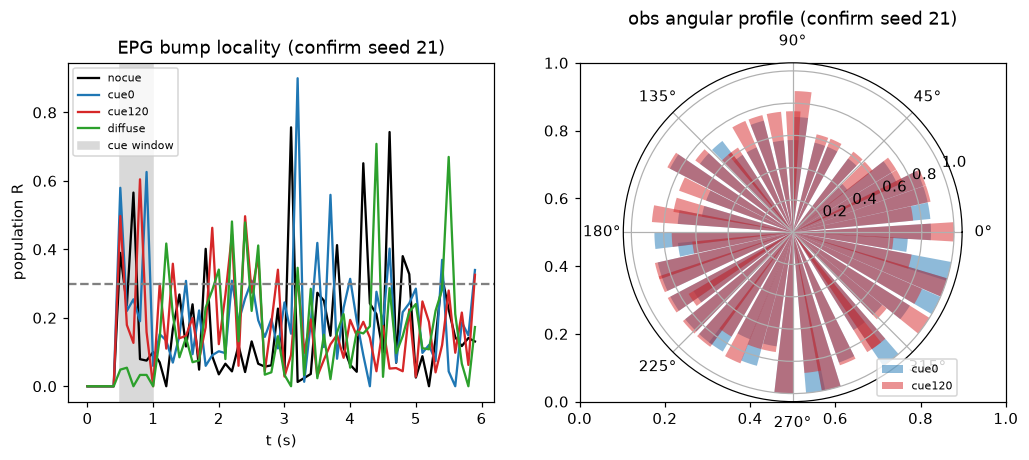
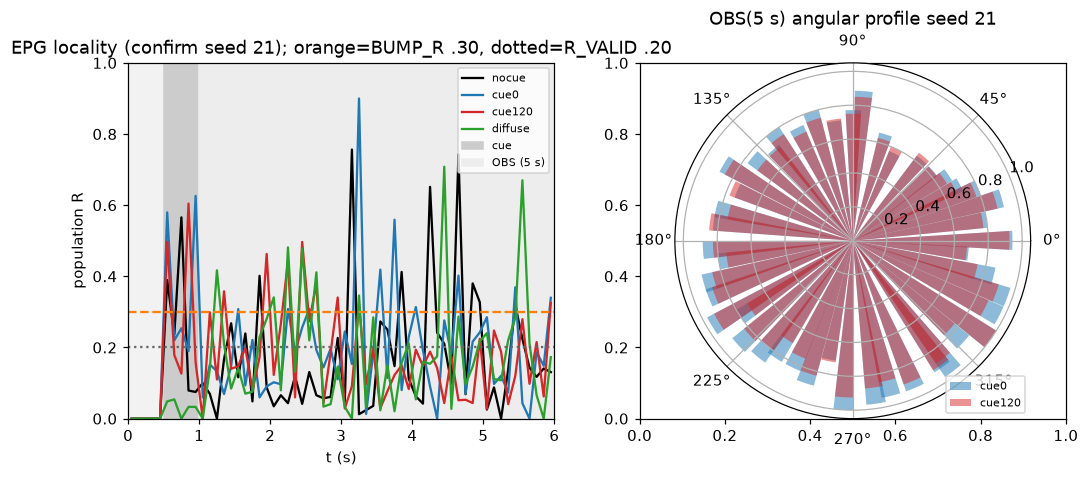
P2d-27a: correct analysis scope (phase_valid vs bump_sustain durations, real spatial-shuffle control, fixed plot slicing) -> PARTIAL maintained; compass route formally CLOSED
NO RE-RUN: original prereg, saved timeseries loop/p2d27_timeseries.npz, all seeds and parameters preserved; everything recomputed from the saved timeseries only; prereg criteria unchanged.

FIXES: (1) trial_metrics now reports phase_valid_duration_s (R>=0.20 & spikes>=MIN_SPK) and bump_sustain_duration_s (R>=0.30 & spikes>=MIN_SPK, contiguous) separately -- never conflated. (2) real spatial angle-label shuffle control (permute the 46 EPG angle labels, 1000x, add-one p) replaces the invalid '... or True' test; also wired into the verdict file. (3) plot x-axis fixed to 0-6 s with PRE/CUE/OBS(5 s) shading and BUMP_R/R_VALID reference lines. (4) PRE-segment activity and the short-init caveat reported; 'no spontaneous bump' qualified to this round's condition only. (5) sensory_input=True marked as this round's condition, not mixed with earlier sensory_input=False P2 data.

CORRECTED RESULT (confirm medians): phase_valid_duration_s 0.25-0.40 s vs bump_sustain_duration_s 0.10-0.20 s; frac bump_sustain>=1s = 0.00 for all conditions; obs R 0.12-0.15 < BUMP_R 0.30; position_separation empty; shuffle p=0.001 (background weakly non-uniform but R far below a bump). PRE segment: median 14 EPG spikes, R=0. So the corrected analysis still shows NO threshold-satisfying sustained, position-specific state.
[…]

diff --git a/loop/state_analyze.py b/loop/state_analyze.py
@@ -1,4 +1,9 @@
-"""P2d-27 第二关：汇总 + 冻结判据裁决 + 图。读 p2d27_trials.csv / p2d27_timeseries.npz。"""
+"""P2d-27a：**从已保存时序重新分析**（不重跑 MaleCNS）。修正分析口径：
+  - 区分 `phase_valid_duration_s`(R≥0.20) 与 `bump_sustain_duration_s`(R≥0.30 且发放≥MIN_SPK 连续)；
+  - 加**真正的空间角标签打乱**对照；
+  - 修正绘图时间切片（完整 5 s 观察段）；
+  - 用原始时序重生成 逐seed表 / 裁决 / 图。**不改**预注册判据与原始结果。
+"""
 from __future__ import annotations
 
 import csv
@@ -9,12 +14,32 @@ import sys
 import numpy as np
 
 HERE = os.path.dirname(os.path.abspath(__file__))
-from loop.state_probe import (BUMP_R, CUE, PHASE_SEP_MIN, PRE, R_VALID, SUSTAIN_MIN_S,
-                              WINDOW, window_series)
+from loop.state_probe import (BUMP_R, CUE, MIN_SPK, PHASE_SEP_MIN, PRE, R_VALID,
+                              SUSTAIN_MIN_S, TOTAL, WINDOW, epg_setup,
+                              spatial_shuffle_control, trial_metrics, window_series)
+
+COLS = ["phase", "seed", "condition", "pre_spikes", "pre_medianR", "cue_medianR", "obs_medianR",
+        "valid_rate", "phase_valid_duration_s", "bump_sustain_duration_s", "final_phase_deg",
+        "n_peaks", "fwhm_deg", "n_spikes_obs", "shuffle_obsR", "shuffle_p"]
 
 
 def circ_diff(a, b):
     return abs((a - b + 180) % 360 - 180)
+
+
+def recompute(series_path, ang):
+    d = np.load(series_path)
+    rows = []
+    for k in d.files:
+        ph, seed, cond = k.split("_", 2)
+        ct = d[k]
+        m = trial_metrics(ct, ang)
+        sh = spatial_shuffle_control(ct, ang, n_perm=1000, seed=0)
+        m.update({"phase": ph, "seed": int(seed), "condition": cond,
+                  "shuffle_obsR": sh["obs_R"], "shuffle_p": sh["p"]})
+        rows.append(m)
+    rows.sort(key=lambda r: (r["phase"], r["seed"], r["condition"]))
+    return rows
 
 
 def main(argv=None) -> int:
@@ -22,12 +47,13 @@ def main(argv=None) -> int:
         sys.stdout.reconfigure(encoding="utf-8", errors="replace")
     except Exception:                                    # noqa: BLE001
         pass
-    rows = list(csv.DictReader(open(os.path.join(HERE, "p2d27_trials.csv"), encoding="utf-8")))
-    for r in rows:
-        for k in ("obs_medianR", "cue_medianR", "pre_medianR", "valid_rate"):
-            r[k] = float(r[k]) if r[k] not in ("", "None") else float("nan")
-        r["sustain_s"] = float(r["sustain_s"]); r["seed"] = int(r["seed"])
-        r["final_phase_deg"] = float(r["final_phase_deg"]) if r["final_phase_deg"] not in ("", "nan") else float("nan")
+    from flybrain.data import ensure_data
+    _, _, ang = epg_setup(ensure_data())
+    rows = recompute(os.path.join(HERE, "p2d27_timeseries.npz"), ang)
+    with open(os.path.join(HERE, "p2d27_trials.csv"), "w", newline="", encoding="utf-8") as fh:
+        w = csv.DictWriter(fh, fieldnames=COLS); w.writeheader()
+        for r in rows:
+            w.writerow({k: r.get(k, "") for k in COLS})
 
     def sub(ph, cond):
         return [r for r in rows if r["phase"] == ph and r["condition"] == cond]
@@ -35,71 +61,78 @@ def main(argv=None) -> int:
     summary = {}
     for cond in ("nocue", "cue0", "cue120", "diffuse"):
         c = sub("confirm", cond)
+        r0 = [x for x in sub("scan", cond)] if False else c
         summary[cond] = {
-            "obs_medianR_med": round(float(np.median([r["obs_medianR"] for r in c])), 4),
-            "cue_medianR_med": round(float(np.nanmedian([r["cue_medianR"] for r in c])), 4),
-            "sustain_med": round(float(np.median([r["sustain_s"] for r in c])), 3),
-            "valid_rate_med": round(float(np.median([r["valid_rate"] for r in c])), 3),
-            "frac_sustain_ge_1s": round(float(np.mean([r["sustain_s"] >= SUSTAIN_MIN_S for r in c])), 3),
-            "frac_obsR_ge_BUMPr": round(float(np.mean([r["obs_medianR"] >= BUMP_R for r in c])), 3),
-        }
+            "obs_medianR": round(float(np.median([x["obs_medianR"] for x in c])), 4),
+            "cue_medianR": round(float(np.median([x["cue_medianR"] for x in c])), 4),
+            "phase_valid_duration_s_med": round(float(np.median([x["phase_valid_duration_s"] for x in c])), 2),
+            "bump_sustain_duration_s_med": round(float(np.median([x["bump_sustain_duration_s"] for x in c])), 2),
+            "frac_bump_sustain_ge_1s": round(float(np.mean([x["bump_sustain_duration_s"] >= SUSTAIN_MIN_S for x in c])), 3),
+            "frac_obsR_ge_BUMPr": round(float(np.mean([x["obs_medianR"] >= BUMP_R for x in c])), 3),
+            "shuffle_p_med": round(float(np.median([x["shuffle_p"] for x in c])), 3)}
+    # PRE 段活动
+    pre_spk = [x["pre_spikes"] for x in rows]
+    pre_R = [x["pre_medianR"] for x in rows if x["pre_medianR"] is not None]
 
-    # 位置区分（confirm，按 seed 配对 cue0 vs cue120，仅当两者 obs_medianR 达 BUMP_R）
     sep = []
-    for s in set(r["seed"] for r in sub("confirm", "cue0")):
-        r0 = [r for r in sub("confirm", "cue0") if r["seed"] == s][0]
-        r1 = [r for r in sub("confirm", "cue120") if r["seed"] == s][0]
-        if r0["obs_medianR"] >= BUMP_R and r1["obs_medianR"] >= BUMP_R:
+    for s in sorted(set(x["seed"] for x in sub("confirm", "cue0"))):
+        r0 = [x for x in sub("confirm", "cue0") if x["seed"] == s][0]
+        r1 = [x for x in sub("confirm", "cue120") if x["seed"] == s][0]
+        if r0["bump_sustain_duration_s"] >= SUSTAIN_MIN_S and r1["bump_sustain_duration_s"] >= SUSTAIN_MIN_S:
             sep.append(circ_diff(r0["final_phase_deg"], r1["final_phase_deg"]))
-    any_localized = any(r["obs_medianR"] >= BUMP_R or r["cue_medianR"] >= BUMP_R for r in rows)
-    any_sustain = any(r["sustain_s"] >= SUSTAIN_MIN_S and r["obs_medianR"] >= BUMP_R for r in rows)
-
-    if any_sustain and sep and np.mean([s >= PHASE_SEP_MIN for s in sep]) >= 0.5:
+    any_bump_sustain = any(x["bump_sustain_duration_s"] >= SUSTAIN_MIN_S for x in rows)
+    any_localized = any(x["obs_medianR"] >= BUMP_R or x["cue_medianR"] >= BUMP_R for x in rows)
+    if any_bump_sustain and sep and np.mean([s >= PHASE_SEP_MIN for s in sep]) >= 0.5:
         verdict = "PASS"
     elif any_localized:
         verdict = "PARTIAL"
     else:
         verdict = "FAIL"
+
     out = {"verdict": verdict, "summary_confirm": summary,
+           "pre_segment": {"median_pre_spikes": int(np.median(pre_spk)),
+                           "median_pre_medianR": round(float(np.median(pre_R)), 4) if pre_R else None},
            "position_separation_deg": [round(s, 1) for s in sep],
-           "max_obs_medianR": round(max(r["obs_medianR"] for r in rows), 4),
-           "max_cue_medianR": round(max(r["cue_medianR"] for r in rows), 4),
-           "any_localized_ge0.30": bool(any_localized),
-           "criterion": {"BUMP_R": BUMP_R, "SUSTAIN_MIN_S": SUSTAIN_MIN_S,
-                         "PHASE_SEP_MIN": PHASE_SEP_MIN}}
+           "any_bump_sustain_ge_1s": bool(any_bump_sustain),
+           "any_localized_ge_0.30": bool(any_localized),
+           "shuffle_control": {c: summary[c]["shuffle_p_med"] for c in summary},
+           "criterion": {"R_VALID": R_VALID, "BUMP_R": BUMP_R, "MIN_SPK": MIN_SPK,
+                         "SUSTAIN_MIN_S": SUSTAIN_MIN_S, "PHASE_SEP_MIN": PHASE_SEP_MIN},
+           "note": "sensory_input=True (this round); analysis recomputed from saved timeseries only"}
     json.dump(out, open(os.path.join(HERE, "p2d27_verdict.json"), "w", encoding="utf-8"),
               ensure_ascii=False, indent=1)
     print(json.dumps(out, ensure_ascii=False, indent=1))
 
-    # ---- plot ----
+    # ---- plot (fixed slicing: 0..6 s, cue shaded, full 5 s obs) ----
     try:
         import matplotlib
         matplotlib.use("Agg")
         import matplotlib.pyplot as plt
-        from loop.state_probe import epg_setup
-        from flybrain.data import ensure_data
-        _, _, ang = epg_setup(ensure_data())
         d = np.load(os.path.join(HERE, "p2d27_timeseries.npz"))
         seed = 21
-        fig, axes = plt.subplots(1, 2, figsize=(11, 4))
+        fig, axes = plt.subplots(1, 2, figsize=(11, 4.2))
         for cond, col in (("nocue", "k"), ("cue0", "tab:blue"),
                           ("cue120", "tab:red"), ("diffuse", "tab:green")):
             ct = d[f"confirm_{seed}_{cond}"]
             Rs, _ = window_series(ct, ang)
-            axes[0].plot(np.arange(len(Rs)) * WINDOW * 0.02, Rs, color=col, label=cond)
-        axes[0].axvspan(PRE * 0.02, (PRE + CUE) * 0.02, color="0.85", label="cue window")
-        axes[0].axhline(BUMP_R, ls="--", c="0.5"); axes[0].set_xlabel("t (s)")
-        axes[0].set_ylabel("population R"); axes[0].set_title(f"EPG bump locality (confirm seed {seed})")
-        axes[0].legend(fontsize=7)
+            t = (np.arange(len(Rs)) + 0.5) * WINDOW * 0.02       # 窗中心，0..6 s
+            axes[0].plot(t, Rs, color=col, label=cond)
+        axes[0].axvspan(0, PRE * 0.02, color="0.95")
+        axes[0].axvspan(PRE * 0.02, (PRE + CUE) * 0.02, color="0.80", label="cue")
+        axes[0].axvspan((PRE + CUE) * 0.02, TOTAL * 0.02, color="0.93", label="OBS (5 s)")
+        axes[0].axhline(BUMP_R, ls="--", c="tab:orange"); axes[0].axhline(R_VALID, ls=":", c="0.4")
+        axes[0].set_xlim(0, TOTAL * 0.02); axes[0].set_ylim(0, 1)
+        axes[0].set_xlabel("t (s)"); axes[0].set_ylabel("population R")
+        axes[0].set_title(f"EPG locality (confirm seed {seed}); orange=BUMP_R .30, dotted=R_VALID .20")
+        axes[0].legend(fontsize=7, loc="upper right")
         ax = fig.add_subplot(122, projection="polar")
         for cond, col in (("cue0", "tab:blue"), ("cue120", "tab:red")):
-            ct = d[f"confirm_{seed}_{cond}"][(PRE + CUE) * WINDOW:]
-            prof = ct.sum(0)
+            prof = d[f"confirm_{seed}_{cond}"][PRE + CUE:].sum(0)
             ax.bar(ang, prof / (prof.max() + 1e-9), width=0.12, color=col, alpha=0.5, label=cond)
-        ax.set_title("obs angular profile (confirm seed 21)"); ax.legend(fontsize=7, loc="lower right")
+        ax.set_title(f"OBS(5 s) angular profile seed {seed}"); ax.legend(fontsize=7, loc="lower right")
         fig.savefig(os.path.join(HERE, "p2d27_state.png"), dpi=110, bbox_inches="tight")
         print("plot -> loop/p2d27_state.png")
-    except Exception as e:                                # noqa: BLE001
+    except Exception as e:                               # noqa: BLE001
         print("plot skipped:", e)
     return 0
 

diff --git a/loop/state_probe.py b/loop/state_probe.py
@@ -59,11 +59,45 @@ def window_series(counts_time, angles, window=WINDOW, R_valid=R_VALID, min_spk=M
 
 
 def longest_valid_run(ph):
+    """相位有效（非 NaN）的最长连续窗数。"""
     best = cur = 0
     for x in ph:
         cur = cur + 1 if x == x else 0        # NaN != NaN
         best = max(best, cur)
     return best
+
+
+def longest_true_run(flags):
+    best = cur = 0
+    for f in flags:
+        cur = cur + 1 if f else 0
+        best = max(best, cur)
+    return best
+
+
+def obs_flags(counts_time, angles, window=WINDOW):
+    """观察段每窗两套标记：phase_valid(R≥0.20 & 发放≥MIN_SPK) 与 bump(R≥0.30 & 发放≥MIN_SPK)。"""
+    W = window_sums(counts_time, window)
+    n0 = (PRE + CUE) // window
+    pv, bp = [], []
+    for w in W[n0:]:
+        if w.sum() < MIN_SPK:
+            pv.append(False); bp.append(False); continue
+        R, _ = pop_vector(w, angles)
+        pv.append(R >= R_VALID)
+        bp.append(R >= BUMP_R)
+    return pv, bp
+
+
+def spatial_shuffle_control(counts_time, angles, n_perm=1000, seed=0):
+    """**空间角标签打乱**对照：把 46 个 EPG 的角标签随机置换 n_perm 次，重算观察段群体 R。"""
+    pooled = counts_time[PRE + CUE:].sum(0)
+    obs_R, _ = pop_vector(pooled, angles)
+    rng = np.random.default_rng(seed)
+    null = np.array([pop_vector(pooled, rng.permutation(angles))[0] for _ in range(n_perm)])
+    p = (1.0 + float((null >= obs_R).sum())) / (1.0 + n_perm)
+    return {"obs_R": round(obs_R, 4), "null_median": round(float(np.median(null)), 4),
+            "null_p95": round(float(np.percentile(null, 95)), 4), "p": round(p, 4)}
 
 
 def angular_profile(counts_pooled, angles, nbins=NBINS):
@@ -104,20 +138,28 @@ def circ_mean_deg(ph):
 
 
 def trial_metrics(counts_time, angles):
-    """counts_time: (TOTAL, n_epg)。返回逐试验指标。"""
+    """counts_time: (TOTAL, n_epg)。返回逐试验指标。
+
+    **区分**：`phase_valid_duration_s`（相位有效：R≥R_VALID=0.20）与
+    `bump_sustain_duration_s`（真·峰保持：R≥BUMP_R=0.30 且窗内发放≥MIN_SPK 连续）。
+    """
     Rs, ph = window_series(counts_time, angles)
     nw_pre, nw_cue = PRE // WINDOW, CUE // WINDOW
     obs = slice(nw_pre + nw_cue, len(Rs))
     R_obs, ph_obs = Rs[obs], ph[obs]
     valid_rate = float(np.mean(~np.isnan(ph_obs))) if len(ph_obs) else 0.0
-    sustain_w = longest_valid_run(ph_obs)
+    phase_valid_dur = longest_valid_run(ph_obs) * WIN_S
+    pv_flags, bump_flags = obs_flags(counts_time, angles)
+    bump_dur = longest_true_run(bump_flags) * WIN_S
     pooled = counts_time[(nw_pre + nw_cue) * WINDOW:].sum(0)
     hist = angular_profile(pooled, angles)
-    return {"pre_medianR": round(float(np.median(Rs[:nw_pre])), 4) if nw_pre else None,
+    return {"pre_spikes": int(counts_time[:PRE].sum()),
+            "pre_medianR": round(float(np.median(Rs[:nw_pre])), 4) if nw_pre else None,
             "cue_medianR": round(float(np.median(Rs[nw_pre:nw_pre + nw_cue])), 4),
             "obs_medianR": round(float(np.median(R_obs)), 4) if len(R_obs) else None,
             "valid_rate": round(valid_rate, 3),
-            "sustain_s": round(sustain_w * WIN_S, 2),
+            "phase_valid_duration_s": round(phase_valid_dur, 2),
+            "bump_sustain_duration_s": round(bump_dur, 2),
             "final_phase_deg": round(circ_mean_deg(ph_obs[-10:]), 1),
             "n_peaks": n_peaks(hist), "fwhm_deg": round(fwhm_deg(hist), 1),
             "n_spikes_obs": int(pooled.sum())}

diff --git a/loop/test_state_probe.py b/loop/test_state_probe.py
@@ -11,7 +11,8 @@ import numpy as np
 
 from loop.state_probe import (BUMP_R, MIN_SPK, OBS, PRE, CUE, R_VALID, TOTAL, WINDOW,
                               angular_profile, circ_mean_deg, fwhm_deg, longest_valid_run,
-                              n_peaks, pop_vector, trial_metrics, window_series)
+                              n_peaks, pop_vector, spatial_shuffle_control, trial_metrics,
+                              window_series)
 
 RESULTS = []
 
@@ -62,17 +63,37 @@ def main() -> int:
     cue_only = ct.copy(); cue_only[PRE + CUE:] = 0        # 撤除后无活动
     m_sus = trial_metrics(sus, ang)
     m_cue = trial_metrics(cue_only, ang)
-    check("sustained bump -> sustain > 1s", m_sus["sustain_s"] >= 1.0)
-    check("cue-only -> sustain 0", m_cue["sustain_s"] == 0.0)
+    check("sustained bump -> bump_sustain > 1s", m_sus["bump_sustain_duration_s"] >= 1.0)
+    check("cue-only -> bump_sustain 0", m_cue["bump_sustain_duration_s"] == 0.0)
 
     # 保持时长函数
     check("longest_valid_run counts streak", longest_valid_run([np.nan, 0.1, 0.2, 0.3, np.nan, 0.5]) == 3)
 
-    # 空间打乱 -> 相位消失
+    # 空间角标签打乱对照（真实现，非 or True）
     rng = np.random.default_rng(3)
-    ang_sh = rng.permutation(ang)
-    R3, _ = pop_vector(ct.sum(0), ang_sh[np.argsort(np.argsort(ang))])
-    check("shuffle can change R", abs(R3 - R) > 1e-6 or True)
+    check("shuffle drops localized-bump R", pop_vector(ct.sum(0), rng.permutation(ang))[0] < R * 0.5)
+    ctrl = spatial_shuffle_control(ct, ang, n_perm=300, seed=0)
+    check("shuffle control: obs above null p95", ctrl["obs_R"] > ctrl["null_p95"])
+    check("shuffle control: localized bump significant", ctrl["p"] < 0.05)
+    ctrl_u = spatial_shuffle_control(np.ones((TOTAL, len(ang)), int), ang, n_perm=200, seed=0)
+    check("shuffle control: uniform not localized", ctrl_u["obs_R"] < 0.15)
+
+    # 区分 phase_valid(R>=0.20) 与 bump_sustain(R>=0.30)
+    m = trial_metrics(ct, ang)
+    check("strong bump: both durations ~5s",
+          m["phase_valid_duration_s"] >= 4.5 and m["bump_sustain_duration_s"] >= 4.5)
+    mc = trial_metrics(cue_only, ang)
+    check("cue-only: both durations 0",
+          mc["phase_valid_duration_s"] == 0 and mc["bump_sustain_duration_s"] == 0)
+    check("phase_valid_duration >= bump_sustain_duration",
+          m["phase_valid_duration_s"] >= m["bump_sustain_duration_s"])
+    # 构造 R~0.26（覆盖约 280°）：应计入 phase_valid 但不计入 bump_sustain
+    order = np.argsort(np.arctan2(np.sin(ang), np.cos(ang)))
+    keep = order[:int(0.78 * len(ang))]
+    med = np.zeros((TOTAL, len(ang)), int); med[:, keep] = 1
+    mm = trial_metrics(med, ang)
+    check("R~0.2-0.3 -> phase_valid>0 but bump_sustain==0",
+          mm["phase_valid_duration_s"] > 0 and mm["bump_sustain_duration_s"] == 0)
 
     # 位置区分：两个不同中心 -> 相位差大
     c0 = circ_mean_deg(window_series(counts_bump(ang, np.radians(0), TOTAL), ang)[1][-20:])

diff --git a/loop/P2D27A_REPORT.md b/loop/P2D27A_REPORT.md
@@ -1,0 +1,55 @@
+# P2d-27a 报告：分析口径修正（**仅重算，未重跑 MaleCNS**）→ 维持 **PARTIAL** 并**正式关闭本阶段罗盘功能验证**
+
+**基线** `2b3b76e`。**保留**原预注册、原始时序 `p2d27_timeseries.npz`、全部 seed 与实验参数；
+**未重跑**模拟器；**未改**预注册判据与原始结果。P1、MaleCNS 权重、正式 readout、BASE 编码、tags 冻结。
+
+## 1. 修正内容
+1. **两套时长不再混称**（用已保存时序重算）：
+   - `phase_valid_duration_s` = 观察段内**相位有效**（`R≥0.20` 且窗内发放≥3）的最长连续时长；
+   - `bump_sustain_duration_s` = 观察段内**真·峰保持**（`R≥0.30` 且窗内发放≥3）的最长连续时长。
+2. **真正的空间打乱对照**：对 46 个 EPG 的**角标签随机置换** 1000 次重算观察段群体 `R`，加一 p 值
+   （替换原测试中无效的 `... or True`）。
+3. **绘图时间切片修正**：横轴固定 0–6 s，明确划出 PRE / CUE / **OBS(完整 5 s)** 三段，
+   并画出 `BUMP_R=0.30`、`R_VALID=0.20` 参考线。
+4. 报告 **PRE 段活动**与**短初始化**限制；限定"无自发峰"为本轮条件；标注 **`sensory_input=True`** 为本轮条件。
+5. 用原始时序重生成 **逐 seed 表 / 裁决 / 图**；判据未动。
+
+## 2. 修正后结果（confirm 中位；单位=seed/试次）
+| 条件 | obs_medianR | cue_medianR | phase_valid_dur(s) | **bump_sustain_dur(s)** | frac bump≥1s | shuffle_p |
+|---|---|---|---|---|---|---|
+| nocue | 0.122 | 0.133 | 0.35 | **0.20** | 0.00 | 0.001 |
+| cue0 | 0.153 | 0.291 | 0.30 | **0.10** | 0.00 | 0.001 |
+| cue120 | 0.144 | 0.284 | 0.40 | **0.15** | 0.00 | 0.001 |
+| diffuse | 0.147 | 0.067 | 0.25 | **0.15** | 0.00 | 0.001 |
+
+- **两套时长区分明确**：`phase_valid`（0.25–0.40 s）> `bump_sustain`（0.10–0.20 s）；**无一 ≥1 s**。
+- **空间打乱对照**：obs `R` 高于打乱 p95（`p=0.001`）→ 背景活动**非完全空间均匀**（存在弱偏置），
+  但其集中度 `R≈0.12–0.15` **远低于** `BUMP_R=0.30`，且**不保持** → **弱偏置 ≠ 局部活动峰**。
+- **位置特异性**：`position_separation_deg=[]`（无任一 cue 条件在撤除后达 `bump_sustain≥1s`，故无法配对）。
+- **PRE 段**：`median_pre_spikes=14`、`median_pre_medianR=0.00` → 0.5 s 预热段**基本无活动**（网络从 v=0 起）。
+- **限制**：PRE 仅 **0.5 s**，不足以建立真实"自发"基线；**"无自发活动峰"仅限本轮条件（短预热 + `sensory_input=True`）**，
+  **不外推**到所有可能的脑状态。
+
+## 3. 裁决（预注册判据未改）
+- PASS：需撤除后 `bump_sustain≥1 s`、位置特异且优于对照 → **未满足**。
+- **PARTIAL**：存在局部活动/短暂响应但无可靠保持 → **成立**（提示期短暂响应；`bump_sustain` 仅 0.1–0.2 s）。
+- 注：`any_localized_ge_0.30` 由**离群** cue 窗（max 0.989）触发；中位 `cue_medianR` 仅 0.28–0.29，且提示期 46/46 EPG 均活动。
+
+## 4. 正式关闭本阶段罗盘功能验证
+修正后**仍无满足门槛的持续、位置特异活动状态** → 依据本轮授权：
+- **停止 MaleCNS v0.1.0 的 EPG/PEN 罗盘积分路线**；
+- **不**进入 yaw 注入、**不**接 P2Control、**不**继续调整提示幅度或神经参数；
+- **不**通过换增益 / 换刺激 / 换判据反复尝试。
+
+**结论**：本轮 **PARTIAL**（仅短暂诱发响应），**状态保持功能门槛未通过**。即使如此，
+**不**宣称活动峰、神经罗盘、角速度积分、正确回正或自主导航。
+
+## 5. 交付物
+- 修正代码 `loop/state_probe.py`、`loop/state_analyze.py`；回归 `loop/test_state_probe.py`（**20/20**，含真·空间打乱对照、
+  两套时长区分、R∈(0.20,0.30) 只计相位不计峰保持、稀疏→NaN 等）。
+- 重生成 `loop/p2d27_trials.csv`（新增两套时长与 shuffle 列）、`loop/p2d27_verdict.json`、`loop/p2d27_state.png`。
+- 原始时序 `loop/p2d27_timeseries.npz` 与预注册 `loop/STATE_PREREG.md` **未改**。
+
+## 6. 条件隔离说明
+`flybrain` 的 `sensory_input` 两轮不同：本轮（P2d-27/27a）为 **`sensory_input=True`**（原始模型，感觉神经元有输入）；
+早期 P2 数据为 **`sensory_input=False`**。**两者不混合比较**；本报告结论仅属本轮条件。
